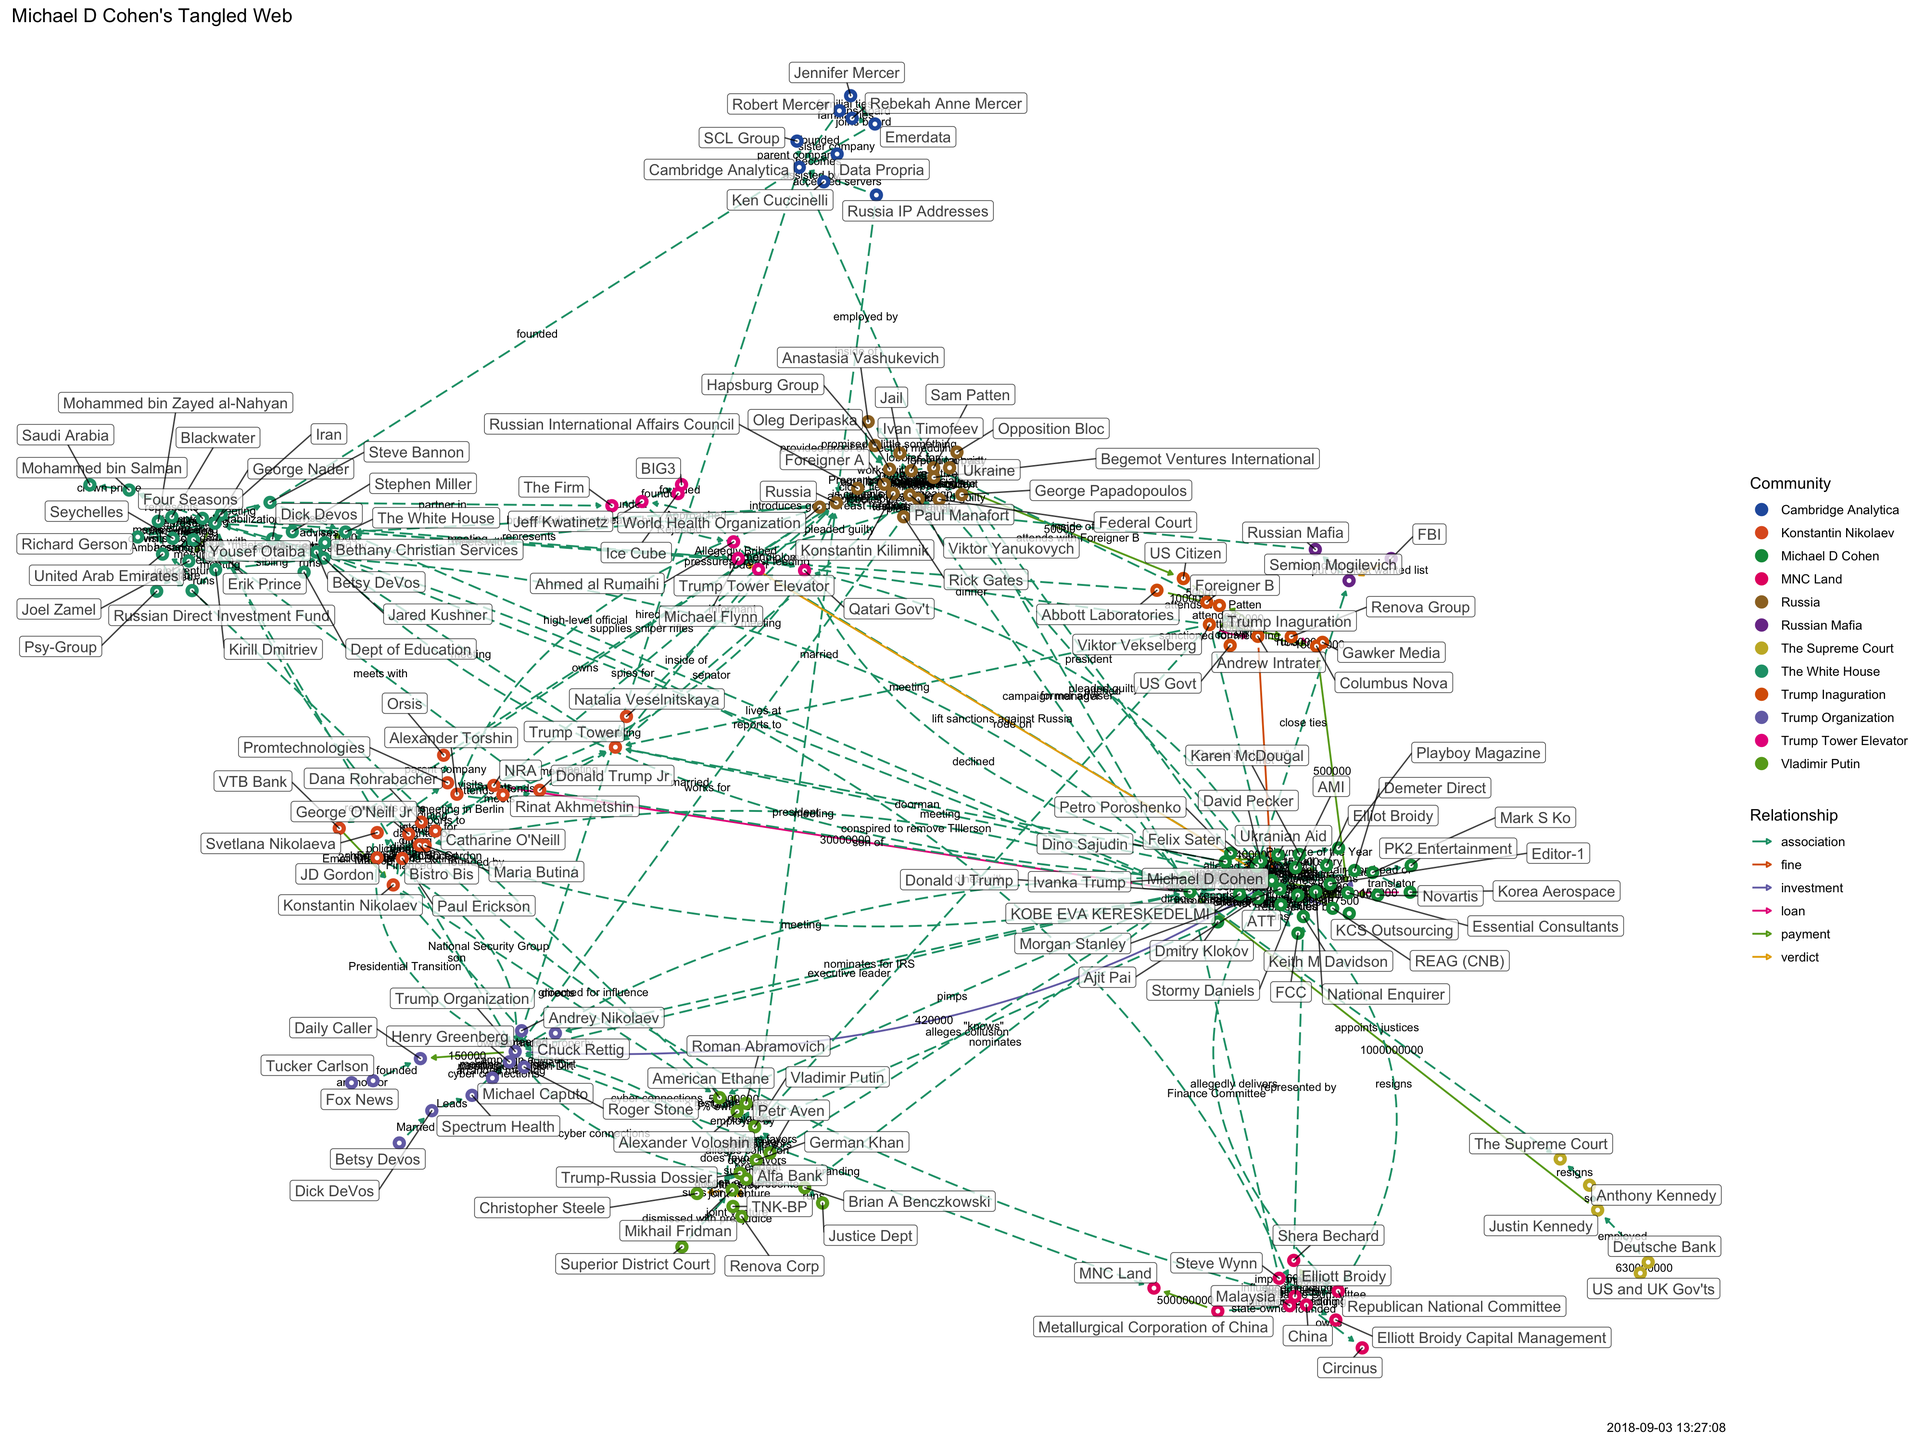
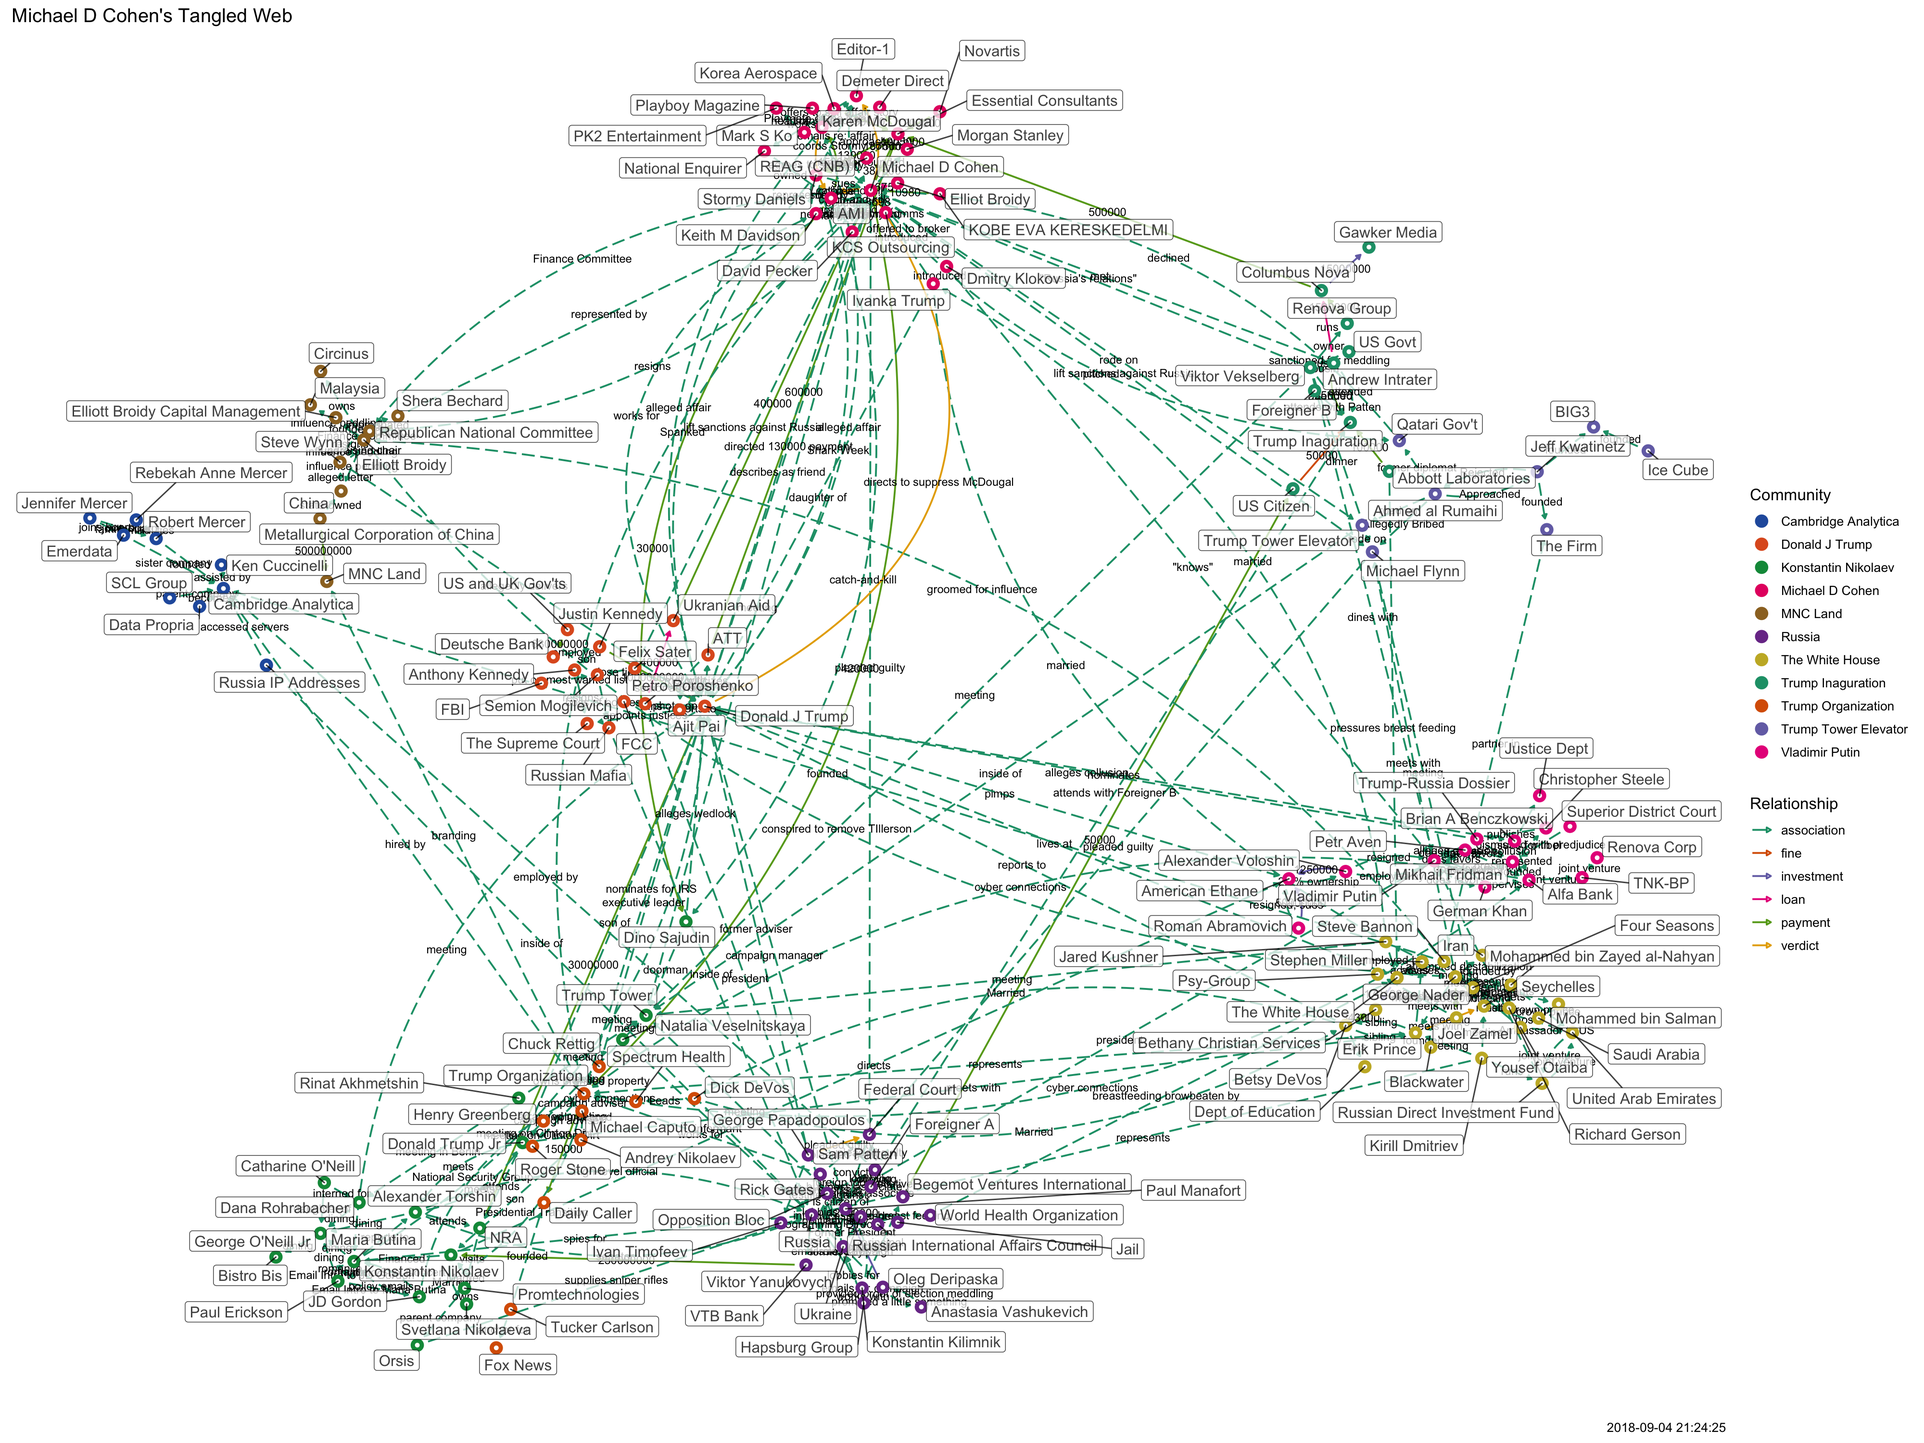
updated

diff --git a/docs/tangled-d3.html b/docs/tangled-d3.html
@@ -1143,11 +1143,11 @@ return function(){for(var n=0,e=0;e<t;++e)n+=Math.random();return n}},um=functio
 </head>
 <body style="background-color: white;">
 <div id="htmlwidget_container">
-<div id="htmlwidget-c1743d0a0e77729f6e1f" class="forceNetwork html-widget" style="width:960px;height:500px;">
+<div id="htmlwidget-c9d29ac1d0d970ba80f4" class="forceNetwork html-widget" style="width:960px;height:500px;">
 
 </div>
 </div>
-<script type="application/json" data-for="htmlwidget-c1743d0a0e77729f6e1f">{"x":{"links":{"source":[0,1,2,2,3,4,5,6,7,7,8,9,10,10,10,11,12,13,14,15,16,17,18,19,20,21,22,22,23,24,25,26,26,27,28,29,30,31,17,3,3,32,3,32,32,3,33,17,34,32,9,9,9,17,35,35,34,17,17,36,36,36,36,35,17,37,38,38,39,40,39,39,41,38,38,42,42,42,4,41,9,11,11,11,43,43,44,44,17,45,46,46,11,47,48,49,11,11,50,51,49,52,48,11,11,47,49,6,6,6,26,16,21,21,17,32,32,53,54,54,54,54,11,51,37,41,55,55,44,44,56,56,34,34,17,57,58,59,58,60,61,60,58,60,60,47,43,62,63,63,30,20,60,58,35,64,17,65,12,66,35,0,67,68,35,1,1,69,24,70,35,70,71,72,73,61,61,61,74,26,75,76,76,77,35,77,77,78,77,79,78,47,47,78,78,78,77,80,79,81,81,62,82,9,83,57,84,84,84,79,79,84,85,85,86,86,87,88,88,19,85,89,68,90,91,92,90,92,9,9,9,93,93,93,94,95,20,32,35,96,97,97,97,97,37,17,35,98,99,100,17,17,101,98,2,17,35,98,35,98,101,2,102,102,34,99,101,103,103,104,105,106,103,17,71,72,73,107,74,71,108,109,109,109,110,111,60,111,112,111,113,113,111,111,58,111,114,111,41,115,75,116,117,118,119,118,119,120,120,120,121,122,123,124,125,126,127,128,128,129,128,49,128,49,130,129,131,11],"target":[132,69,102,98,132,10,29,133,10,134,22,83,135,136,34,48,35,17,17,10,137,8,10,35,60,27,10,34,7,69,133,138,17,17,66,132,60,85,10,7,17,23,32,3,132,132,32,35,57,61,139,140,141,136,25,34,35,26,139,135,142,17,15,26,53,53,53,39,38,143,144,143,144,45,37,4,35,145,42,25,11,9,41,43,25,44,43,35,45,17,138,146,49,49,49,147,51,50,148,131,52,25,149,37,150,35,6,49,151,35,137,94,35,152,153,153,17,153,130,51,11,154,154,154,154,154,154,131,17,56,17,61,57,17,57,17,59,152,60,68,68,35,68,155,153,153,153,153,153,68,152,68,58,20,64,26,139,156,65,12,156,25,25,67,69,61,61,1,69,74,70,157,61,61,61,71,72,73,26,74,26,75,68,35,77,68,78,68,79,77,47,78,19,19,68,82,82,82,82,82,80,80,158,83,57,17,77,26,26,77,84,77,77,86,85,89,68,85,26,89,69,87,31,91,92,91,26,26,94,159,93,139,35,139,93,20,95,37,4,60,60,26,96,60,96,96,17,99,100,2,99,101,2,2,17,2,17,35,98,160,35,102,35,153,99,17,17,35,105,105,106,68,17,37,74,74,74,161,161,108,109,35,61,71,71,60,111,112,152,113,111,68,75,96,5,5,132,132,75,75,162,75,75,117,117,115,115,35,96,121,122,68,26,123,6,124,75,49,129,61,68,26,130,130,131,131,129,130],"colour":["red","blue","red","red","red","red","red","red","red","blue","red","red","red","red","red","red","blue","red","red","red","blue","red","red","blue","blue","red","red","red","blue","blue","red","red","red","red","blue","red","red","blue","blue","blue","blue","blue","blue","blue","blue","blue","blue","blue","blue","blue","blue","blue","blue","blue","blue","blue","blue","blue","blue","blue","blue","blue","blue","blue","blue","blue","blue","blue","blue","blue","blue","blue","blue","blue","blue","blue","blue","blue","blue","blue","blue","blue","blue","blue","blue","blue","blue","blue","blue","blue","blue","blue","blue","blue","blue","blue","blue","blue","blue","blue","blue","blue","blue","blue","blue","blue","blue","blue","blue","blue","blue","blue","blue","blue","blue","blue","blue","blue","blue","blue","blue","blue","blue","blue","blue","blue","blue","blue","blue","blue","blue","blue","blue","blue","blue","blue","blue","blue","blue","blue","blue","blue","blue","blue","blue","blue","blue","blue","blue","blue","blue","blue","blue","blue","blue","blue","blue","blue","blue","blue","blue","blue","blue","blue","blue","blue","blue","blue","blue","blue","blue","blue","blue","blue","blue","blue","blue","blue","blue","blue","blue","blue","blue","blue","blue","blue","blue","blue","blue","blue","blue","blue","blue","blue","blue","blue","blue","blue","blue","blue","blue","blue","blue","blue","blue","blue","blue","blue","blue","blue","blue","blue","blue","blue","blue","blue","blue","blue","blue","blue","blue","blue","blue","blue","blue","blue","blue","blue","blue","blue","blue","blue","blue","blue","blue","blue","blue","blue","blue","blue","blue","blue","blue","blue","blue","blue","blue","blue","blue","blue","blue","blue","blue","blue","blue","blue","blue","blue","blue","blue","blue","blue","blue","blue","blue","blue","blue","blue","blue","blue","blue","blue","blue","blue","blue","blue","blue","blue","blue","blue","blue","blue","blue","blue","blue","blue","blue","blue","blue","blue","blue","blue","blue","blue","blue","blue","blue","blue","blue","blue","blue","blue","blue","blue","blue","blue","blue","blue","blue","blue","blue","blue","blue","blue","blue","blue","blue","blue","blue","blue","blue","blue","blue","blue","blue","blue","blue","blue"]},"nodes":{"name":["Abbott Laboratories","Alexander Voloshin","AMI","Andrew Intrater","ATT","Begemot Ventures International","Betsy DeVos","Columbus Nova","Elliot Broidy","Elliott Broidy","Essential Consultants","George Nader","Justin Kennedy","KCS Outsourcing","KOBE EVA KERESKEDELMI","Korea Aerospace","Metallurgical Corporation of China","Michael D Cohen","Novartis","NRA","Oleg Deripaska","Petro Poroshenko","REAG (CNB)","Renova Group","Roman Abramovich","The White House","Trump Organization","Ukranian Aid","US and UK Gov'ts","US Citizen","Viktor Yanukovych","VTB Bank","Viktor Vekselberg","US Govt","Stormy Daniels","Donald J Trump","Mark S Ko","Michael Flynn","Ahmed al Rumaihi","Jeff Kwatinetz","Ice Cube","Steve Bannon","Ajit Pai","Jared Kushner","Ivanka Trump","Qatari Gov't","Tucker Carlson","Donald Trump Jr","Joel Zamel","Erik Prince","Mohammed bin Salman","Mohammed bin Zayed al-Nahyan","Stephen Miller","Trump Tower Elevator","Richard Gerson","Yousef Otaiba","Dmitry Klokov","Keith M Davidson","Konstantin Kilimnik","Hapsburg Group","Paul Manafort","Vladimir Putin","Rinat Akhmetshin","Natalia Veselnitskaya","Chuck Rettig","Anthony Kennedy","Deutsche Bank","World Health Organization","Russia","American Ethane","Brian A Benczkowski","Mikhail Fridman","German Khan","Petr Aven","Alfa Bank","Cambridge Analytica","Russia IP Addresses","Maria Butina","Alexander Torshin","Paul Erickson","Dana Rohrabacher","Catharine O'Neill","George O'Neill Jr","Shera Bechard","JD Gordon","Konstantin Nikolaev","Svetlana Nikolaeva","Orsis","Andrey Nikolaev","Promtechnologies","Michael Caputo","Henry Greenberg","Roger Stone","Steve Wynn","China","Anastasia Vashukevich","Federal Court","Rick Gates","Karen McDougal","Editor-1","National Enquirer","David Pecker","Dino Sajudin","Felix Sater","FBI","Semion Mogilevich","Russian Mafia","Renova Corp","Christopher Steele","Trump-Russia Dossier","Superior District Court","Sam Patten","Opposition Bloc","Foreigner A","Foreigner B","Robert Mercer","SCL Group","Emerdata","Jennifer Mercer","Rebekah Anne Mercer","George Papadopoulos","Ivan Timofeev","Russian International Affairs Council","Spectrum Health","Dick DeVos","Dick Devos","Betsy Devos","Ken Cuccinelli","Kirill Dmitriev","Russian Direct Investment Fund","Seychelles","United Arab Emirates","Trump Inaguration","Bethany Christian Services","Gawker Media","Demeter Direct","Morgan Stanley","MNC Land","Daily Caller","Republican National Committee","Elliott Broidy Capital Management","Circinus","PK2 Entertainment","BIG3","The Firm","FCC","Fox News","Blackwater","Saudi Arabia","Psy-Group","Iran","Dept of Education","Ukraine","Trump Tower","Four Seasons","Jail","The Supreme Court","Justice Dept","Bistro Bis","Malaysia","Playboy Magazine","TNK-BP","Data Propria"],"group":["8","5","1","8","1","3","2","8","1","7","1","2","11","1","1","1","7","1","1","4","3","1","1","8","5","2","6","1","11","8","3","4","8","8","1","1","1","10","10","10","10","2","1","2","1","10","6","4","2","2","2","2","2","10","2","2","1","1","3","3","3","5","4","4","6","11","11","3","3","5","5","5","5","5","5","9","9","4","4","4","4","4","4","7","4","4","4","4","6","4","6","6","6","7","7","3","3","3","1","1","1","1","1","1","12","12","12","5","5","5","5","3","3","3","8","9","9","9","9","9","3","3","3","6","6","2","6","9","2","2","2","2","8","2","8","1","1","7","6","7","7","7","1","10","10","1","6","2","2","2","2","2","3","4","2","3","11","5","4","7","1","5","9"]},"options":{"NodeID":"name","Group":"group","colourScale":"d3.scaleOrdinal(d3.schemeCategory20);","fontSize":20,"fontFamily":"serif","clickTextSize":50,"linkDistance":50,"linkWidth":"function(d) { return Math.sqrt(d.value); }","charge":-100,"opacity":1,"zoom":true,"legend":false,"arrows":false,"nodesize":false,"radiusCalculation":" Math.sqrt(d.nodesize)+6","bounded":false,"opacityNoHover":1,"clickAction":null}},"evals":[],"jsHooks":[]}</script>
-<script type="application/htmlwidget-sizing" data-for="htmlwidget-c1743d0a0e77729f6e1f">{"viewer":{"width":450,"height":350,"padding":10,"fill":true},"browser":{"width":960,"height":500,"padding":10,"fill":true}}</script>
+<script type="application/json" data-for="htmlwidget-c9d29ac1d0d970ba80f4">{"x":{"links":{"source":[0,1,2,2,3,4,5,6,7,7,8,9,10,10,10,11,12,13,14,15,16,17,18,19,20,21,22,22,23,24,25,26,26,27,28,29,30,31,17,3,3,32,3,32,32,3,33,17,34,32,9,9,9,17,35,35,34,17,17,36,36,36,36,35,17,37,38,38,39,40,39,39,41,38,38,42,42,42,4,41,9,11,11,11,43,43,44,44,17,45,46,46,11,47,48,49,11,11,50,51,49,52,48,11,11,47,49,6,6,6,26,16,21,21,17,32,32,53,54,54,54,54,11,51,37,41,55,55,44,44,56,56,34,34,17,57,58,59,58,60,61,60,58,60,60,47,43,62,63,63,30,20,60,58,35,64,17,65,12,66,35,0,67,68,35,1,1,69,24,70,35,70,71,72,73,61,61,61,74,26,75,76,76,77,35,77,77,78,77,79,78,47,47,78,78,78,77,80,79,81,81,62,82,9,83,57,84,84,84,79,79,84,85,85,86,86,87,88,88,19,85,89,68,90,91,92,90,92,9,9,9,93,93,93,94,95,20,32,35,96,97,97,97,97,37,17,35,98,99,100,17,17,101,98,2,17,35,98,35,98,101,2,102,102,34,99,101,103,103,104,105,106,103,17,71,72,73,107,74,71,108,109,109,109,110,111,60,111,112,111,113,113,111,111,58,111,114,111,41,115,75,116,117,118,119,118,119,120,120,120,121,122,123,124,124,6,125,126,126,127,126,49,126,49,128,127,129,11],"target":[130,69,102,98,130,10,29,131,10,132,22,83,133,134,34,48,35,17,17,10,135,8,10,35,60,27,10,34,7,69,131,136,17,17,66,130,60,85,10,7,17,23,32,3,130,130,32,35,57,61,137,138,139,134,25,34,35,26,137,133,140,17,15,26,53,53,53,39,38,141,142,141,142,45,37,4,35,143,42,25,11,9,41,43,25,44,43,35,45,17,136,144,49,49,49,145,51,50,146,129,52,25,147,37,148,35,6,49,149,35,135,94,35,150,151,151,17,151,128,51,11,152,152,152,152,152,152,129,17,56,17,61,57,17,57,17,59,150,60,68,68,35,68,153,151,151,151,151,151,68,150,68,58,20,64,26,137,154,65,12,154,25,25,67,69,61,61,1,69,74,70,155,61,61,61,71,72,73,26,74,26,75,68,35,77,68,78,68,79,77,47,78,19,19,68,82,82,82,82,82,80,80,156,83,57,17,77,26,26,77,84,77,77,86,85,89,68,85,26,89,69,87,31,91,92,91,26,26,94,157,93,137,35,137,93,20,95,37,4,60,60,26,96,60,96,96,17,99,100,2,99,101,2,2,17,2,17,35,98,158,35,102,35,151,99,17,17,35,105,105,106,68,17,37,74,74,74,159,159,108,109,35,61,71,71,60,111,112,150,113,111,68,75,96,5,5,130,130,75,75,160,75,75,117,117,115,115,35,96,121,122,68,26,123,6,124,75,49,127,61,68,26,128,128,129,129,127,128],"colour":["red","blue","red","red","red","red","red","red","red","blue","red","red","red","red","red","red","blue","red","red","red","blue","red","red","blue","blue","red","red","red","blue","blue","red","red","red","red","blue","red","red","blue","blue","blue","blue","blue","blue","blue","blue","blue","blue","blue","blue","blue","blue","blue","blue","blue","blue","blue","blue","blue","blue","blue","blue","blue","blue","blue","blue","blue","blue","blue","blue","blue","blue","blue","blue","blue","blue","blue","blue","blue","blue","blue","blue","blue","blue","blue","blue","blue","blue","blue","blue","blue","blue","blue","blue","blue","blue","blue","blue","blue","blue","blue","blue","blue","blue","blue","blue","blue","blue","blue","blue","blue","blue","blue","blue","blue","blue","blue","blue","blue","blue","blue","blue","blue","blue","blue","blue","blue","blue","blue","blue","blue","blue","blue","blue","blue","blue","blue","blue","blue","blue","blue","blue","blue","blue","blue","blue","blue","blue","blue","blue","blue","blue","blue","blue","blue","blue","blue","blue","blue","blue","blue","blue","blue","blue","blue","blue","blue","blue","blue","blue","blue","blue","blue","blue","blue","blue","blue","blue","blue","blue","blue","blue","blue","blue","blue","blue","blue","blue","blue","blue","blue","blue","blue","blue","blue","blue","blue","blue","blue","blue","blue","blue","blue","blue","blue","blue","blue","blue","blue","blue","blue","blue","blue","blue","blue","blue","blue","blue","blue","blue","blue","blue","blue","blue","blue","blue","blue","blue","blue","blue","blue","blue","blue","blue","blue","blue","blue","blue","blue","blue","blue","blue","blue","blue","blue","blue","blue","blue","blue","blue","blue","blue","blue","blue","blue","blue","blue","blue","blue","blue","blue","blue","blue","blue","blue","blue","blue","blue","blue","blue","blue","blue","blue","blue","blue","blue","blue","blue","blue","blue","blue","blue","blue","blue","blue","blue","blue","blue","blue","blue","blue","blue","blue","blue","blue","blue","blue","blue","blue","blue","blue","blue","blue","blue","blue","blue","blue","blue","blue","blue","blue","blue","blue","blue","blue","blue","blue","blue","blue","blue","blue","blue","blue","blue","blue","blue","blue","blue","blue"]},"nodes":{"name":["Abbott Laboratories","Alexander Voloshin","AMI","Andrew Intrater","ATT","Begemot Ventures International","Betsy DeVos","Columbus Nova","Elliot Broidy","Elliott Broidy","Essential Consultants","George Nader","Justin Kennedy","KCS Outsourcing","KOBE EVA KERESKEDELMI","Korea Aerospace","Metallurgical Corporation of China","Michael D Cohen","Novartis","NRA","Oleg Deripaska","Petro Poroshenko","REAG (CNB)","Renova Group","Roman Abramovich","The White House","Trump Organization","Ukranian Aid","US and UK Gov'ts","US Citizen","Viktor Yanukovych","VTB Bank","Viktor Vekselberg","US Govt","Stormy Daniels","Donald J Trump","Mark S Ko","Michael Flynn","Ahmed al Rumaihi","Jeff Kwatinetz","Ice Cube","Steve Bannon","Ajit Pai","Jared Kushner","Ivanka Trump","Qatari Gov't","Tucker Carlson","Donald Trump Jr","Joel Zamel","Erik Prince","Mohammed bin Salman","Mohammed bin Zayed al-Nahyan","Stephen Miller","Trump Tower Elevator","Richard Gerson","Yousef Otaiba","Dmitry Klokov","Keith M Davidson","Konstantin Kilimnik","Hapsburg Group","Paul Manafort","Vladimir Putin","Rinat Akhmetshin","Natalia Veselnitskaya","Chuck Rettig","Anthony Kennedy","Deutsche Bank","World Health Organization","Russia","American Ethane","Brian A Benczkowski","Mikhail Fridman","German Khan","Petr Aven","Alfa Bank","Cambridge Analytica","Russia IP Addresses","Maria Butina","Alexander Torshin","Paul Erickson","Dana Rohrabacher","Catharine O'Neill","George O'Neill Jr","Shera Bechard","JD Gordon","Konstantin Nikolaev","Svetlana Nikolaeva","Orsis","Andrey Nikolaev","Promtechnologies","Michael Caputo","Henry Greenberg","Roger Stone","Steve Wynn","China","Anastasia Vashukevich","Federal Court","Rick Gates","Karen McDougal","Editor-1","National Enquirer","David Pecker","Dino Sajudin","Felix Sater","FBI","Semion Mogilevich","Russian Mafia","Renova Corp","Christopher Steele","Trump-Russia Dossier","Superior District Court","Sam Patten","Opposition Bloc","Foreigner A","Foreigner B","Robert Mercer","SCL Group","Emerdata","Jennifer Mercer","Rebekah Anne Mercer","George Papadopoulos","Ivan Timofeev","Russian International Affairs Council","Spectrum Health","Dick DeVos","Ken Cuccinelli","Kirill Dmitriev","Russian Direct Investment Fund","Seychelles","United Arab Emirates","Trump Inaguration","Bethany Christian Services","Gawker Media","Demeter Direct","Morgan Stanley","MNC Land","Daily Caller","Republican National Committee","Elliott Broidy Capital Management","Circinus","PK2 Entertainment","BIG3","The Firm","FCC","Fox News","Blackwater","Saudi Arabia","Psy-Group","Iran","Dept of Education","Ukraine","Trump Tower","Four Seasons","Jail","The Supreme Court","Justice Dept","Bistro Bis","Malaysia","Playboy Magazine","TNK-BP","Data Propria"],"group":["9","5","2","9","6","3","1","9","2","8","2","1","6","2","2","2","8","2","2","4","3","6","2","9","5","1","7","6","6","9","3","3","9","9","2","6","2","11","11","11","11","1","6","1","2","11","7","4","1","1","1","1","1","11","1","1","2","2","3","3","3","5","4","4","7","6","6","3","3","5","5","5","5","5","5","10","10","4","4","4","4","4","4","8","4","4","4","4","7","4","7","7","7","8","8","3","3","3","2","2","2","2","4","6","6","6","6","5","5","5","5","3","3","3","9","10","10","10","10","10","3","3","3","7","7","10","1","1","1","1","9","1","9","2","2","8","7","8","8","8","2","11","11","6","7","1","1","1","1","1","3","4","1","3","6","5","4","8","2","5","10"]},"options":{"NodeID":"name","Group":"group","colourScale":"d3.scaleOrdinal(d3.schemeCategory20);","fontSize":20,"fontFamily":"serif","clickTextSize":50,"linkDistance":50,"linkWidth":"function(d) { return Math.sqrt(d.value); }","charge":-100,"opacity":1,"zoom":true,"legend":false,"arrows":false,"nodesize":false,"radiusCalculation":" Math.sqrt(d.nodesize)+6","bounded":false,"opacityNoHover":1,"clickAction":null}},"evals":[],"jsHooks":[]}</script>
+<script type="application/htmlwidget-sizing" data-for="htmlwidget-c9d29ac1d0d970ba80f4">{"viewer":{"width":450,"height":350,"padding":10,"fill":true},"browser":{"width":960,"height":500,"padding":10,"fill":true}}</script>
 </body>
 </html>
